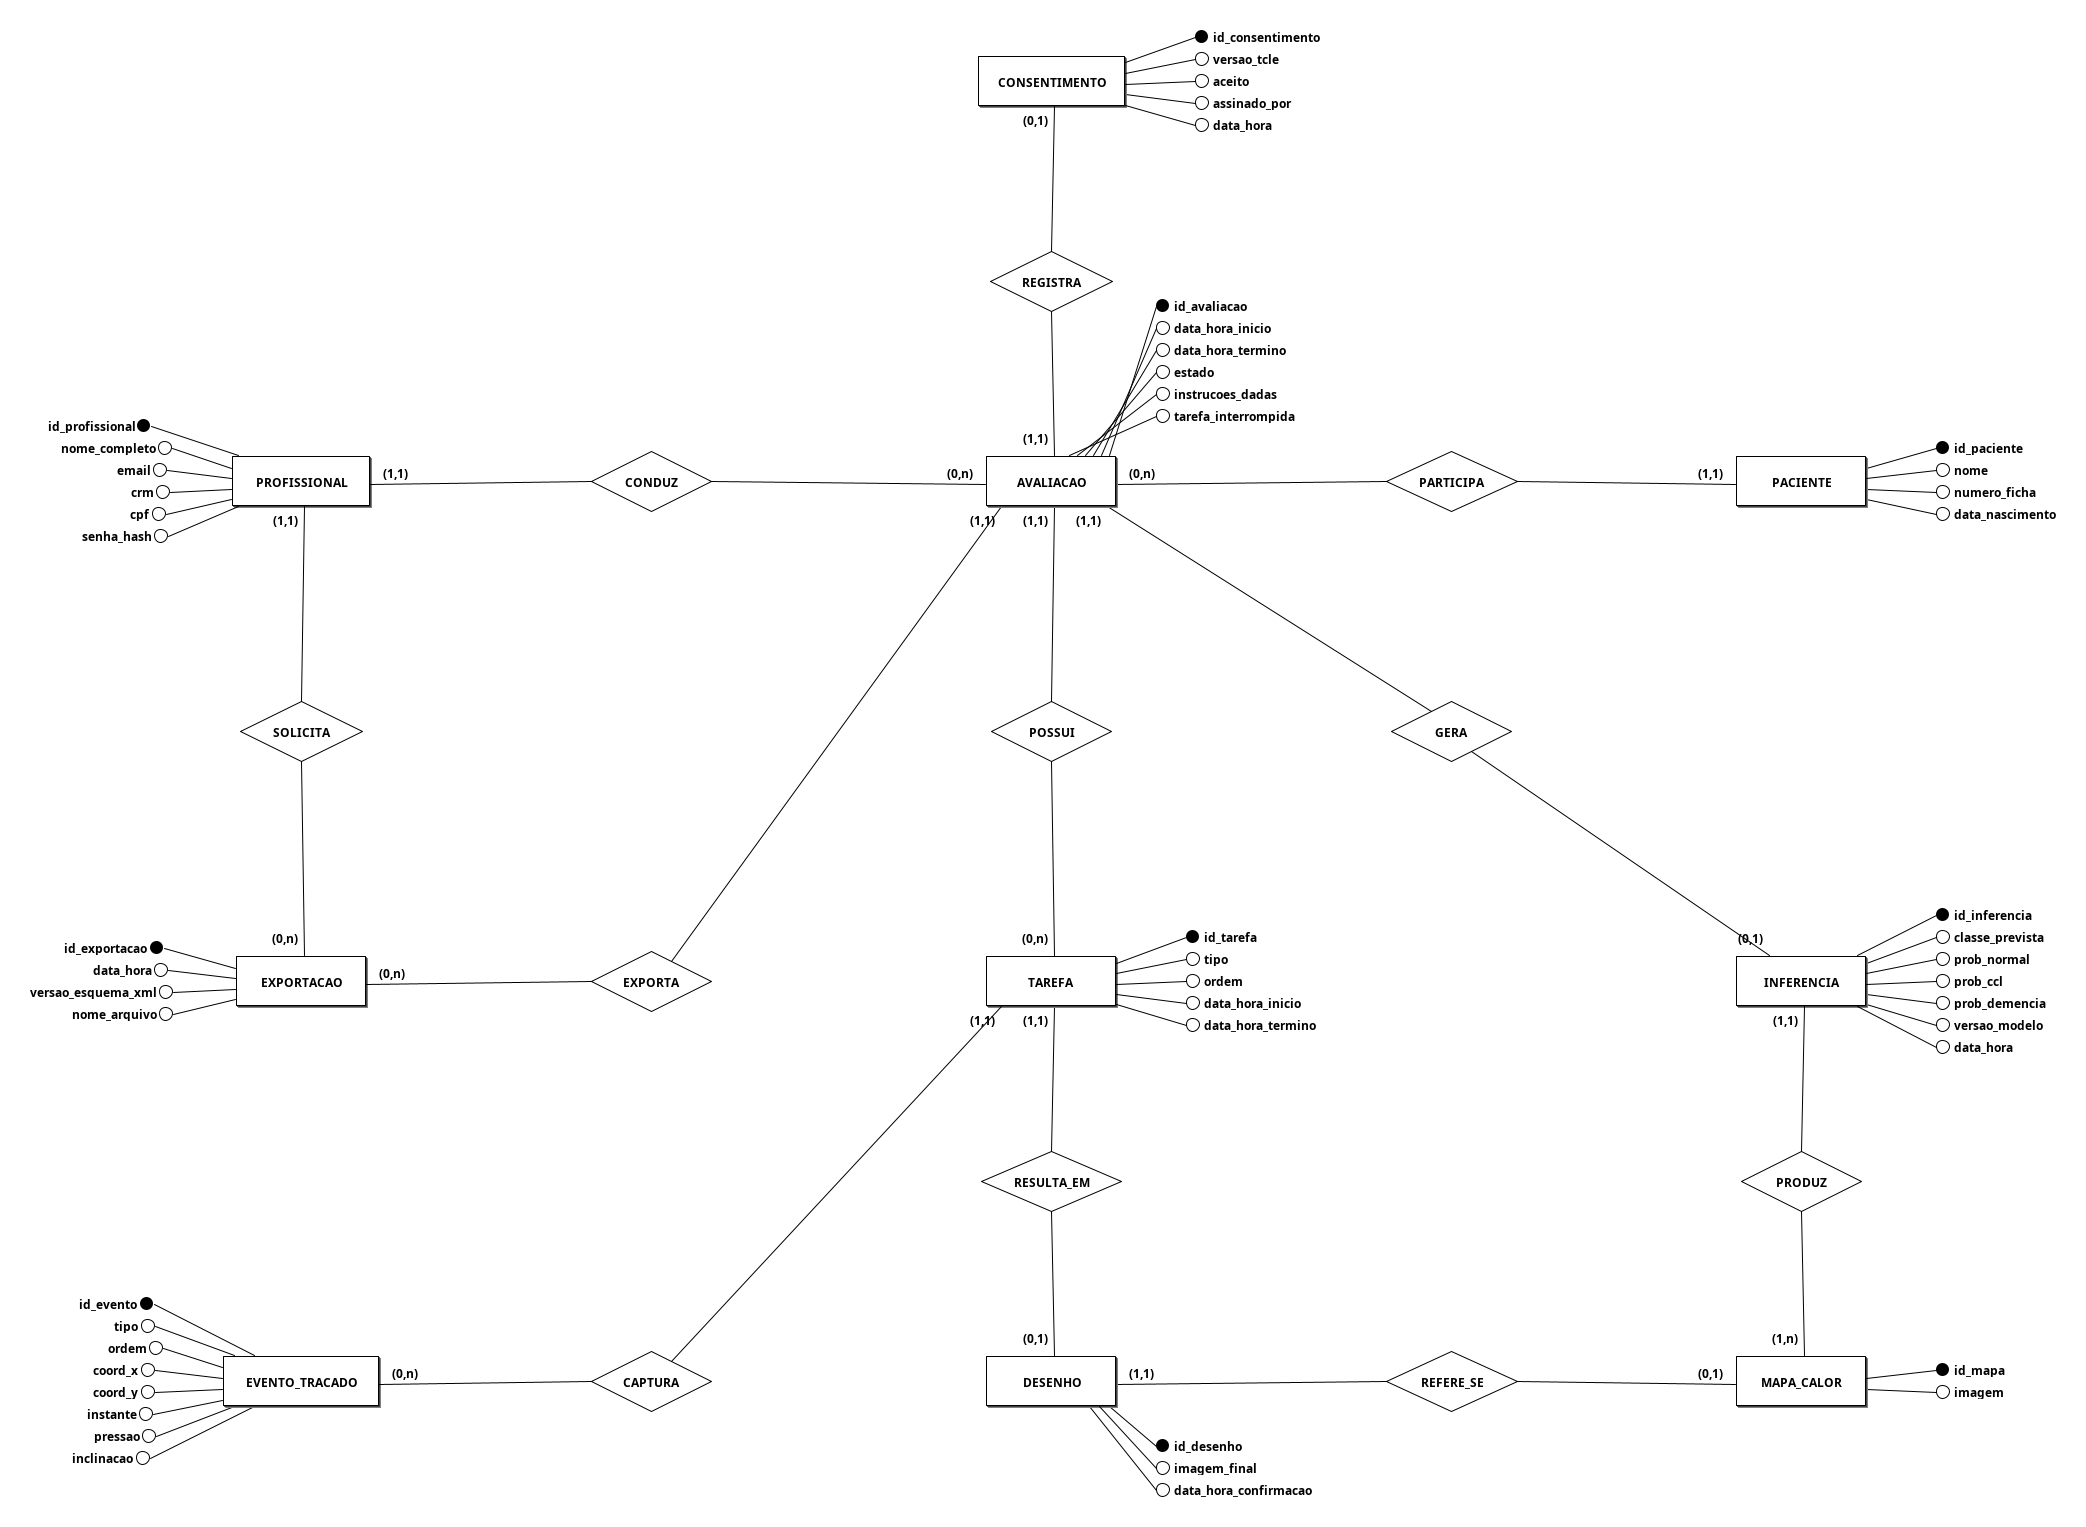
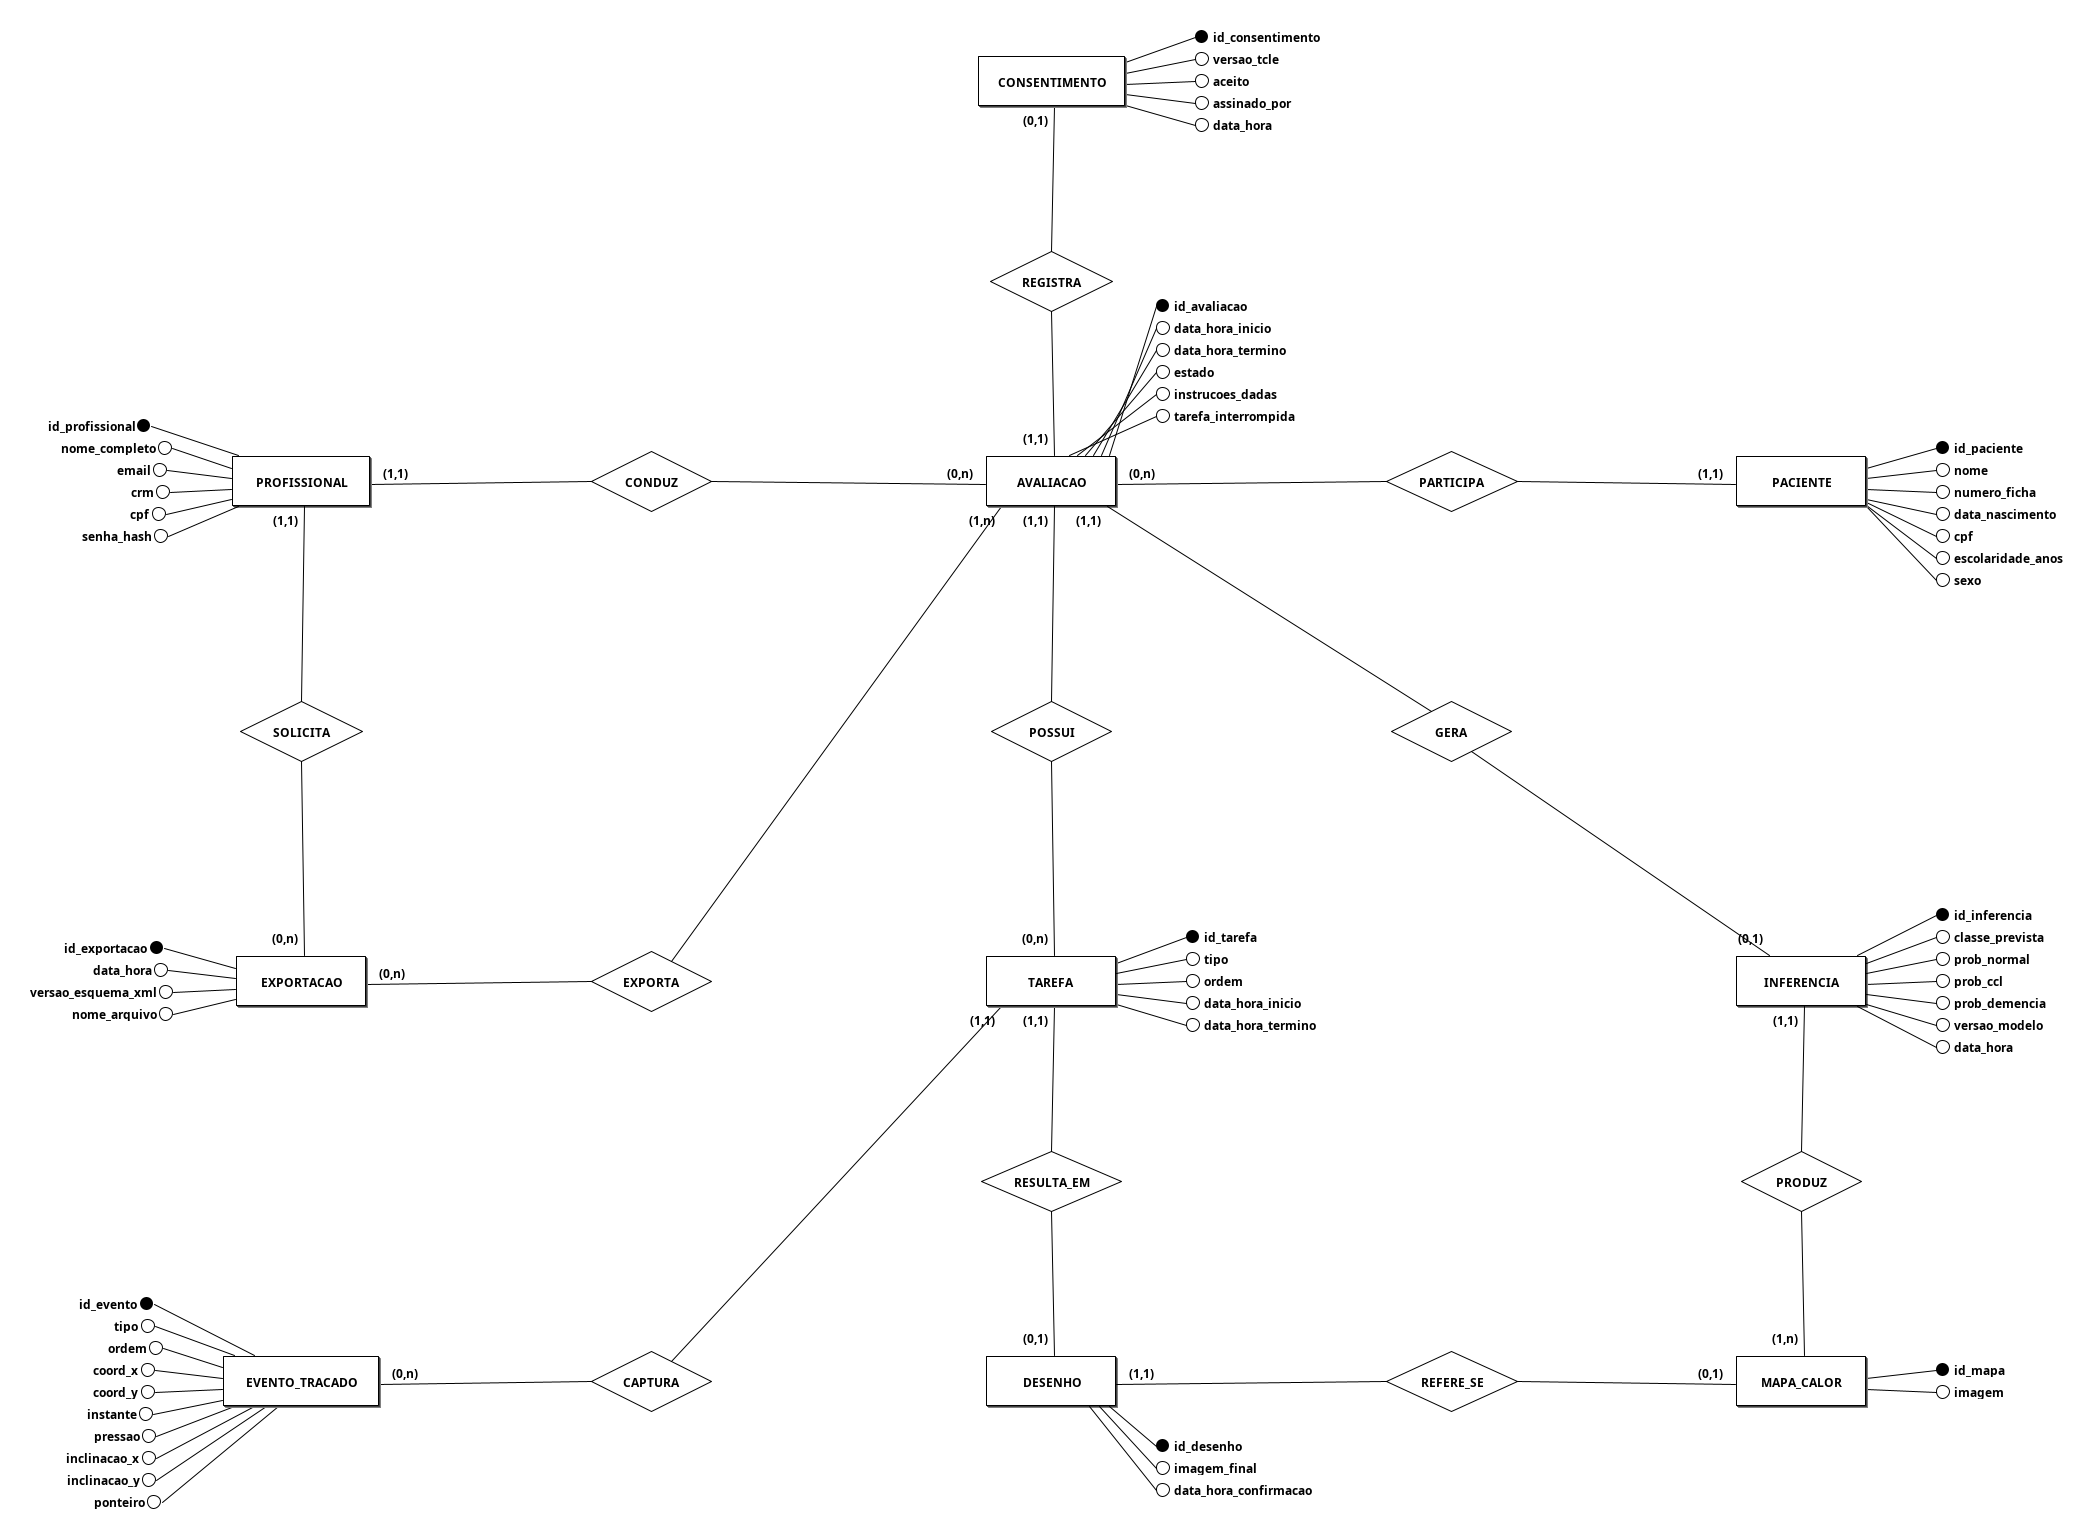
docs(arquitetura): adiciona CPF, escolaridade e sexo do paciente ao MER e ao DER

diff --git a/docs/produto/arquitetura.md b/docs/produto/arquitetura.md
@@ -282,7 +282,7 @@ Em produção existe um único nó de execução, o tablet. A máquina de desenv
 
 ## 8. Modelagem de dados
 
-Esta seção descreve os dados que o aplicativo guarda no banco SQLite do tablet. Os campos de cadastro são os definidos pelo cliente na [Ata 06](../atas-reunioes/Ata-06-EPS-2026-09-15-PO.md). Os dados de traçado, inferência, horário, profissional e paciente são os pedidos para o XML na [Ata 04](../atas-reunioes/Ata-04-EPS-2026-09-11-PO.md).
+Esta seção descreve os dados que o aplicativo guarda no banco SQLite do tablet, em três níveis: o modelo conceitual (MER), o diagrama entidade-relacionamento (DER) e o esquema lógico, com as tabelas, as colunas e as chaves. Os campos de cadastro são os definidos pelo cliente na [Ata 06](../atas-reunioes/Ata-06-EPS-2026-09-15-PO.md), com o CPF do paciente pedido pelo *Product Owner* na [Ata 09](../atas-reunioes/Ata-09-EPS-2026-10-05-PO.md). Os dados de traçado, inferência, horário, profissional e paciente são os pedidos para o XML na [Ata 04](../atas-reunioes/Ata-04-EPS-2026-09-11-PO.md).
 
 ### 8.1 Modelo Entidade-Relacionamento (MER)
 
@@ -293,12 +293,12 @@ Os identificadores estão sublinhados, e os atributos opcionais estão marcados 
 | Entidade | Atributos |
 |---|---|
 | PROFISSIONAL | <u>id_profissional</u>, nome_completo, email, crm, cpf, senha_hash |
-| PACIENTE | <u>id_paciente</u>, nome, numero_ficha, data_nascimento |
+| PACIENTE | <u>id_paciente</u>, nome, cpf, numero_ficha, data_nascimento, escolaridade_anos, sexo (opcional) |
 | AVALIACAO | <u>id_avaliacao</u>, data_hora_inicio, data_hora_termino (opcional), estado, instrucoes_dadas (opcional), tarefa_interrompida (opcional) |
 | CONSENTIMENTO | <u>id_consentimento</u>, versao_tcle, aceito, assinado_por, data_hora |
 | TAREFA | <u>id_tarefa</u>, tipo, ordem, data_hora_inicio, data_hora_termino (opcional) |
 | DESENHO | <u>id_desenho</u>, imagem_final, data_hora_confirmacao |
-| EVENTO_TRACADO | <u>id_evento</u>, tipo, ordem, coord_x, coord_y, instante, pressao (opcional), inclinacao (opcional) |
+| EVENTO_TRACADO | <u>id_evento</u>, tipo, ordem, ponteiro (opcional), coord_x (opcional), coord_y (opcional), instante, pressao (opcional), inclinacao_x (opcional), inclinacao_y (opcional) |
 | INFERENCIA | <u>id_inferencia</u>, classe_prevista, prob_normal, prob_ccl, prob_demencia, versao_modelo, data_hora |
 | MAPA_CALOR | <u>id_mapa</u>, imagem |
 | EXPORTACAO | <u>id_exportacao</u>, data_hora, versao_esquema_xml, nome_arquivo |
@@ -312,12 +312,12 @@ Os identificadores estão sublinhados, e os atributos opcionais estão marcados 
 | REGISTRA | AVALIACAO e CONSENTIMENTO | 1:1 | Cada avaliação tem no máximo um registro de consentimento. Ele não existe enquanto o TCLE está na tela |
 | POSSUI | AVALIACAO e TAREFA | 1:N | Uma avaliação tem até três tarefas. Uma avaliação interrompida pode ter menos |
 | RESULTA_EM | TAREFA e DESENHO | 1:1 | Cada tarefa tem no máximo um desenho confirmado |
-| CAPTURA | TAREFA e EVENTO_TRACADO | 1:N | Cada tarefa registra vários eventos de traçado (traço, desfazer ou limpar), mesmo que o desenho não seja confirmado |
+| CAPTURA | TAREFA e EVENTO_TRACADO | 1:N | Cada tarefa registra vários eventos de traçado (início de traço, ponto, desfazer ou limpar), mesmo que o desenho não seja confirmado |
 | GERA | AVALIACAO e INFERENCIA | 1:1 | Uma avaliação tem no máximo uma inferência, que só existe quando os três desenhos foram confirmados |
 | PRODUZ | INFERENCIA e MAPA_CALOR | 1:N | Cada inferência produz três mapas de calor |
 | REFERE_SE | DESENHO e MAPA_CALOR | 1:1 | Cada mapa de calor se refere a um desenho |
 | SOLICITA | PROFISSIONAL e EXPORTACAO | 1:N | Um profissional pode solicitar várias exportações |
-| EXPORTA | AVALIACAO e EXPORTACAO | 1:N | Uma avaliação pode ser exportada mais de uma vez |
+| EXPORTA | AVALIACAO e EXPORTACAO | N:N | Uma avaliação pode ser exportada mais de uma vez, e uma exportação reúne uma ou mais avaliações, como no botão "Exportar todos" da tela inicial |
 
 Duas regras não aparecem no diagrama, porque a notação só permite cardinalidade máxima 1 ou N: uma avaliação tem no máximo **três** tarefas, e cada inferência tem exatamente **três** mapas de calor. O aplicativo precisa garantir essas regras.
 
